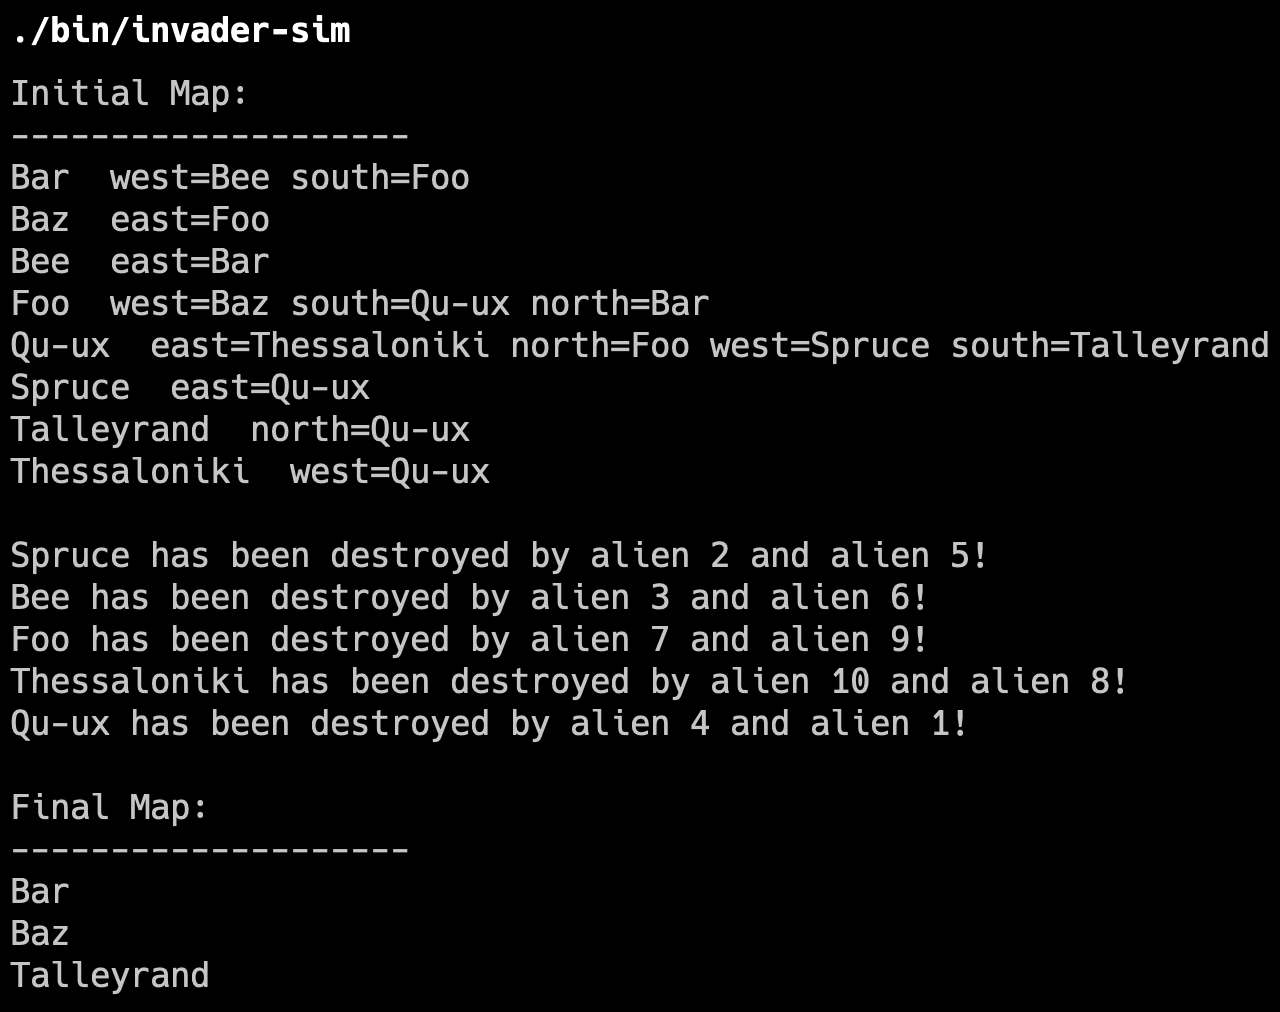
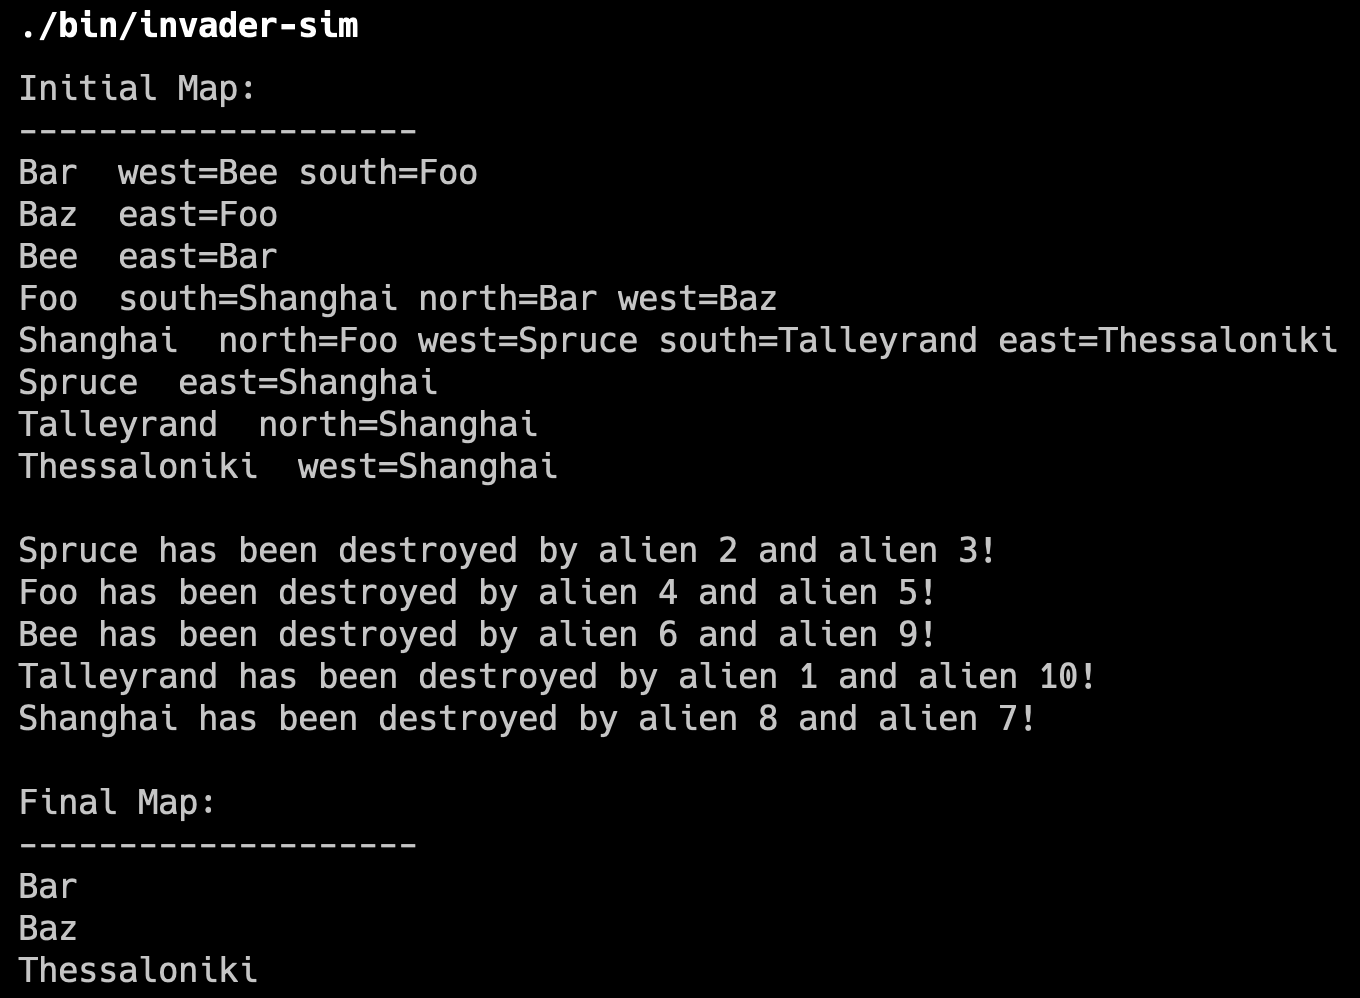
docs[*]: Updating docs.

Changed region(s): [[0.0, 0.0, 1.0, 0.497], [0.0, 0.5281, 0.875, 0.7455], [0.0, 0.7766, 0.3125, 0.994]]

diff --git a/README.md b/README.md
@@ -68,10 +68,10 @@ is in a file, with one city per line. The city name is first, followed by 1-4 di
 direction. 
 
 For example: 
-Foo north=Bar west=Baz south=Qu-ux 
+Foo north=Bar west=Baz south=Shanghai 
 Bar south=Foo west=Bee 
 ```
-* there are two types of cities: cities declared explicitly in the file(e.g. Foo and Bar) and those declared implicitly (Baz, Qu-ux, Bee and Baz)
+* there are two types of cities: cities declared explicitly in the file(e.g. Foo and Bar) and those declared implicitly (Baz, Shanghai, Bee and Baz)
 * an explicitly declared city can contain up to 4 city connections/links 
 * city names do not contain spaces
 * input files contain only valid connections:
@@ -86,7 +86,7 @@ separated from their respective cities with an equals (=) sign. You should creat
 where N is specified as a command-line argument. These aliens start out at random places on 
 the map, and wander around randomly, following links. Each iteration, the aliens can travel 
 in any of the directions leading out of a city. In our example above, an alien that starts at 
-Foo can go north to Bar, west to Baz, or south to Qu-ux. When two aliens end up in the same 
+Foo can go north to Bar, west to Baz, or south to Shanghai. When two aliens end up in the same 
 place, they fight, and in the process kill each other and destroy the city. When a city is 
 destroyed, it is removed from the map, and so are any roads that lead into or out of it. 
 ```
@@ -96,7 +96,7 @@ destroyed, it is removed from the map, and so are any roads that lead into or ou
 
 ```
 In our example above, if Bar were destroyed the map would now be something like: 
-Foo west=Baz south=Qu-ux 
+Foo west=Baz south=Shanghai 
 ```
 * connections between cities must be stored in some state.
 
